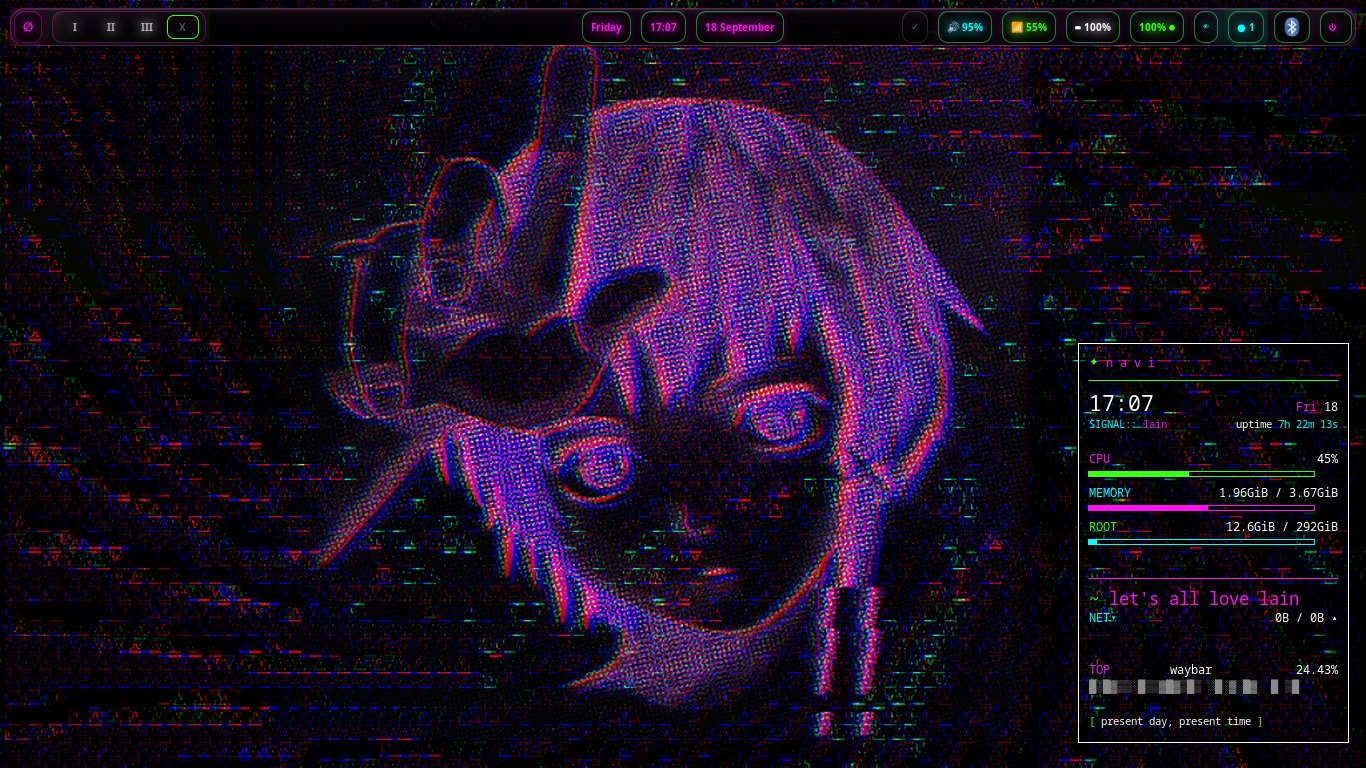
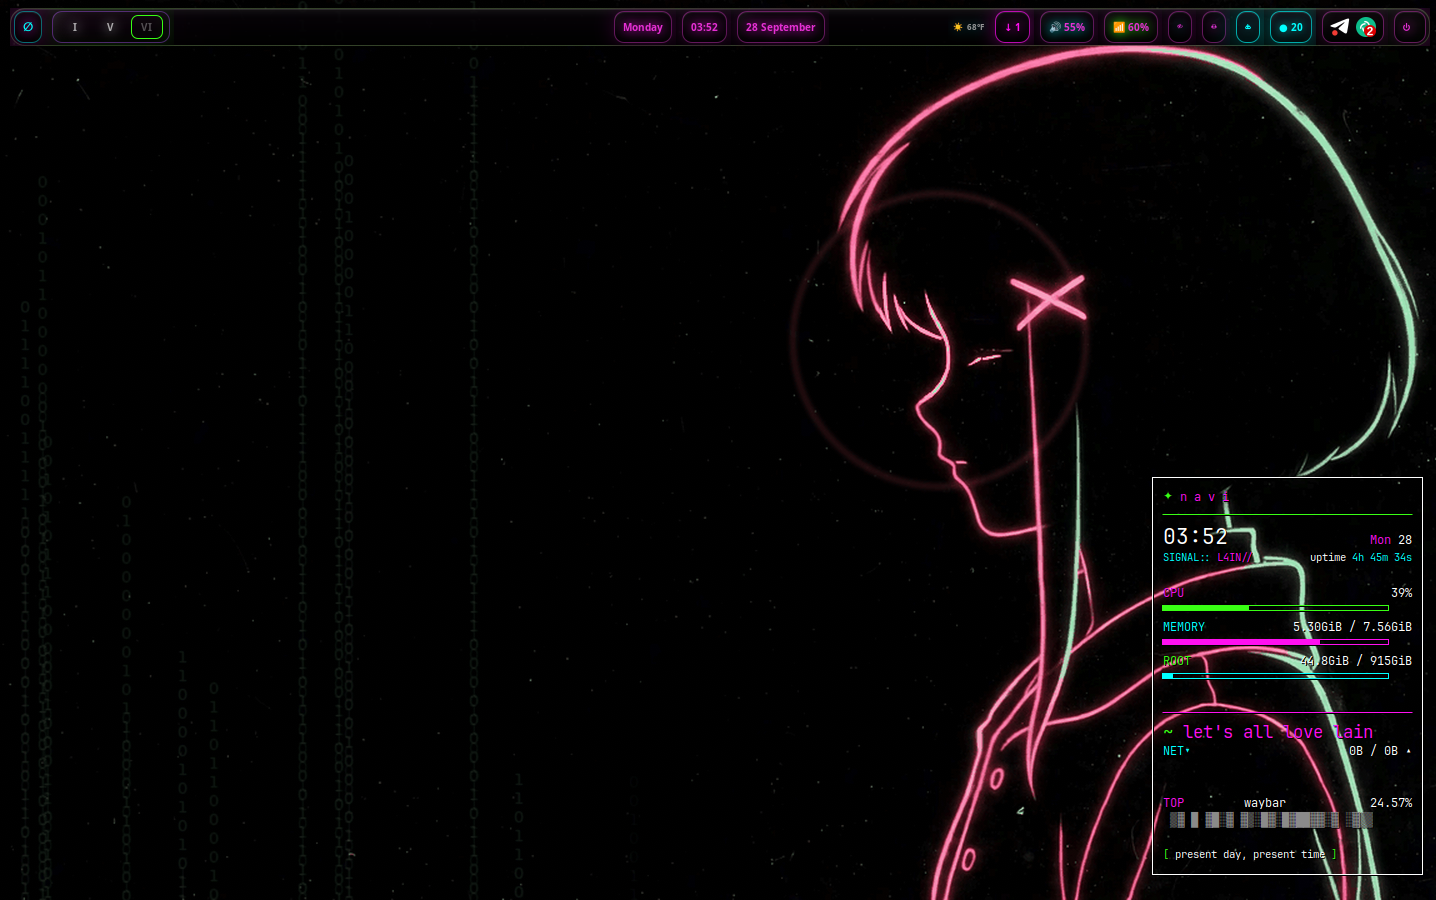
screenshot roller rebuild: 12 fresh slides, new hero, agent-center + naviApps sections refreshed

diff --git a/index.html b/index.html
@@ -939,7 +939,7 @@
 
         <div class="hero-stage">
           <div class="desktop-window" aria-label="navi desktop screenshot">
-            <img src="assets/hero.png" alt="The navi desktop: glitch-Lain wallpaper, the obsidian Waybar and a conky system panel in nightshadeNeon">
+            <img src="assets/hero.png" alt="The navi desktop: hairclip-neon Lain wallpaper, the obsidian Waybar and a conky system panel in nightshadeNeon">
           </div>
           <span class="stable-stamp">PUBLIC STABLE // SIGNAL LIVE</span>
         </div>
@@ -1051,46 +1051,46 @@
 
       <div class="tour-shell" aria-label="navi screenshot carousel">
         <div class="tour-screen" aria-live="polite">
-          <figure class="tour-slide active" data-title="the wired, ready" data-copy="The new obsidian Waybar over a glitch-Lain wallpaper — focused, legible, built for the keyboard." data-meta="01 / 12">
-            <img src="assets/hero.png" alt="The navi desktop: glitch-Lain wallpaper, the obsidian Waybar and a conky system panel">
+          <figure class="tour-slide active" data-title="the wired, ready" data-copy="nothing open, everything ready — the wired idles beautifully." data-meta="01 / 12">
+            <img src="assets/hero.png" alt="The navi desktop: hairclip-neon Lain wallpaper, the obsidian Waybar and a conky system panel">
           </figure>
-          <figure class="tour-slide" data-title="one theme, everywhere" data-copy="nemo, NaviVim and everything between them in one nightshadeNeon GTK theme with Moka icons — the toolkit speaks the same language as the terminal." data-meta="02 / 12">
-            <img src="assets/navivim-editing.png" alt="nemo file manager in the nightshadeNeon GTK theme with Moka icons, beside NaviVim editing an HTML file">
+          <figure class="tour-slide" data-title="tiled by default" data-copy="edit the wiki, walk the files, read the smallweb. the mouse stays parked." data-meta="02 / 12">
+            <img src="assets/tiled-work.png" alt="NaviVim editing the rav3ndust.xyz wiki, ranger listing files and amfora on a gemini page, tiled across the desktop">
           </figure>
-          <figure class="tour-slide" data-title="tiled by default" data-copy="Sway arranges the work. i3 remains one session away when X11 is the right tool." data-meta="03 / 12">
-            <img src="assets/tiled.png" alt="navi tiled desktop with Vim, ranger and terminal windows">
+          <figure class="tour-slide" data-title="agents belong here" data-copy="four agents, one editor, no tab-switching — herdr tiles the whole bench." data-meta="03 / 12">
+            <img src="assets/agents-bench.png" alt="herdr tiling opencode, the GitHub Copilot CLI, goose, omp's model picker and NaviVim on one desktop">
           </figure>
-          <figure class="tour-slide" data-title="agents belong here" data-copy="herdr tiles the work — NaviVim on the left, an opencode agent reading the repo handbook on the right. editor and agent, one keystroke apart." data-meta="04 / 12">
-            <img src="assets/herdr-agents.png" alt="herdr tiling NaviVim and an opencode agent side by side in the terminal">
+          <figure class="tour-slide" data-title="the editor is home" data-copy="vim, distro-fied — file tree, fuzzy finder, language servers. zero config spelunking required." data-meta="04 / 12">
+            <img src="assets/navivim-dash.png" alt="NaviVim's dashboard over the navi repo, with the file tree and keybinding cheatsheet">
           </figure>
-          <figure class="tour-slide" data-title="launcher + alerts" data-copy="rofi launches in green and pink, dunst pings in magenta — the launcher and the notifier, both fluent in nightshadeNeon." data-meta="05 / 12">
-            <img src="assets/rofi-dunst.png" alt="the rofi application launcher open over the desktop with a dunst notification visible">
+          <figure class="tour-slide" data-title="launch anything" data-copy="type and it's there — every tool on the system, one filter away." data-meta="05 / 12">
+            <img src="assets/rofi-launcher.png" alt="the rofi launcher in combi mode filtering 2167 entries">
           </figure>
-          <figure class="tour-slide" data-title="radio from the smallweb" data-copy="navi radio brings live stations and local music into a screen tuned to the rest of the desktop." data-meta="06 / 12">
-            <img src="assets/navi-radio.png" alt="navi radio playing a station in its nightshadeNeon interface">
+          <figure class="tour-slide" data-title="the panel is alive" data-copy="the panel isn't decoration — every waybar module opens a real tool." data-meta="06 / 12">
+            <img src="assets/navi-mods.png" alt="four navi mods tiled: calendar, weather alerts, networking and audio">
           </figure>
-          <figure class="tour-slide" data-title="apps, living locally" data-copy="naviApps is an offline-first catalog of 71 installable webapps, including a dedicated from xvoidsx collection." data-meta="07 / 12">
-            <img src="assets/naviapps.png" alt="The local naviApps web interface with search, categories and app cards">
+          <figure class="tour-slide" data-title="the web, on your terms" data-copy="Chrome in nightshadeNeon, blackice eating the trackers — the browser looks like your desktop and blocks like it means it." data-meta="07 / 12">
+            <img src="assets/browser-wiki.png" alt="Chrome in the nightshadeNeon theme with blackice and Proton Pass in the toolbar">
           </figure>
-          <figure class="tour-slide" data-title="your people, your protocols" data-copy="neighborli on the fediverse and glyyph on nostr, side by side — social that belongs to you, not a platform." data-meta="08 / 12">
-            <img src="assets/neighborli-glyyph.png" alt="neighborli and the glyyph nostr client open side by side on the navi desktop">
+          <figure class="tour-slide" data-title="your people, your protocols" data-copy="the timeline is yours again — no algorithm in between." data-meta="08 / 12">
+            <img src="assets/social-protocols.png" alt="neighborli's home feed beside the glyyph nostr client">
           </figure>
-          <figure class="tour-slide" data-title="the smallweb, native" data-copy="elinks and amfora ship ready — gemini, gopher and the quiet corners of the web are first-class citizens here." data-meta="09 / 12">
-            <img src="assets/smallweb.png" alt="elinks browsing the web and bookmarks beside amfora on a gemini capsule">
+          <figure class="tour-slide" data-title="the smallweb, native" data-copy="the smallweb isn't a demo here. it's tuesday." data-meta="09 / 12">
+            <img src="assets/smallweb-bbs.png" alt="elinks reading a bookmarks page beside amfora on a gemini BBS">
           </figure>
-          <figure class="tour-slide" data-title="duskline, in the wild" data-copy="A real daily desktop: Waybar overhead, music in motion and a violet horizon behind it." data-meta="10 / 12">
-            <img src="assets/duskline-desktop.png" alt="A real navi desktop with duskline gifpaper, Waybar and music tools">
+          <figure class="tour-slide" data-title="radio from the smallweb" data-copy="radio, rebuilt for the wired — stations, tapes, and your own files in one screen." data-meta="10 / 12">
+            <img src="assets/navi-radio-fresh.png" alt="the navi radio webapp with its station list in nightshadeNeon">
           </figure>
-          <figure class="tour-slide" data-title="the wired has a pulse" data-copy="cmus and cava arrive pre-tuned in cyan, green, magenta and red — music is part of the environment." data-meta="11 / 12">
-            <img src="assets/music-desktop.png" alt="A real navi desktop with cmus, cava and an animated Lain wallpaper">
+          <figure class="tour-slide" data-title="the machine DJs" data-copy="put the machine on DJ duty — pianobar spins, cava dances, you work." data-meta="11 / 12">
+            <img src="assets/pianobar-dj.png" alt="pianobar picking stations with the cava visualizer and a conky panel">
           </figure>
-          <figure class="tour-slide" data-title="old iron, new tricks" data-copy="navi 2.0 eiri on a 2012 Acer Aspire S3. if it flies here, it flies anywhere — that's perma-computing." data-meta="12 / 12">
-            <img src="assets/fastfetch.png" alt="fastfetch showing navi 2.0 eiri running on an Acer Aspire S3">
+          <figure class="tour-slide" data-title="old iron, new tricks" data-copy="navi 2.0 eiri on a 2012 ThinkCentre M92p — if it flies here, it flies anywhere. that's perma-computing." data-meta="12 / 12">
+            <img src="assets/old-iron.png" alt="fastfetch showing navi 2.0 eiri on a 2012 ThinkCentre M92p">
           </figure>
           <div class="tour-overlay">
             <div>
               <h3 id="tour-title">the wired, ready</h3>
-              <p id="tour-copy">The new obsidian Waybar over a glitch-Lain wallpaper — focused, legible, built for the keyboard.</p>
+              <p id="tour-copy">nothing open, everything ready — the wired idles beautifully.</p>
             </div>
             <span class="tour-count" id="tour-count">01 / 12</span>
           </div>
@@ -1099,17 +1099,17 @@
           <button class="tour-arrow" type="button" id="tour-prev" aria-label="Previous screenshot">←</button>
           <div class="tour-tabs" role="tablist" aria-label="Choose a screenshot">
             <button class="tour-tab active" type="button" role="tab" aria-selected="true">desktop</button>
-            <button class="tour-tab" type="button" role="tab" aria-selected="false">theme</button>
-            <button class="tour-tab" type="button" role="tab" aria-selected="false">tiling</button>
-            <button class="tour-tab" type="button" role="tab" aria-selected="false">agents</button>
-            <button class="tour-tab" type="button" role="tab" aria-selected="false">launcher</button>
-            <button class="tour-tab" type="button" role="tab" aria-selected="false">radio</button>
-            <button class="tour-tab" type="button" role="tab" aria-selected="false">apps</button>
-            <button class="tour-tab" type="button" role="tab" aria-selected="false">social</button>
-            <button class="tour-tab" type="button" role="tab" aria-selected="false">smallweb</button>
-            <button class="tour-tab" type="button" role="tab" aria-selected="false">duskline</button>
-            <button class="tour-tab" type="button" role="tab" aria-selected="false">music</button>
-            <button class="tour-tab" type="button" role="tab" aria-selected="false">system</button>
+            <button class="tour-tab" type="button" role="tab" aria-selected="false" tabindex="-1">tiling</button>
+            <button class="tour-tab" type="button" role="tab" aria-selected="false" tabindex="-1">agents</button>
+            <button class="tour-tab" type="button" role="tab" aria-selected="false" tabindex="-1">editor</button>
+            <button class="tour-tab" type="button" role="tab" aria-selected="false" tabindex="-1">launcher</button>
+            <button class="tour-tab" type="button" role="tab" aria-selected="false" tabindex="-1">mods</button>
+            <button class="tour-tab" type="button" role="tab" aria-selected="false" tabindex="-1">browser</button>
+            <button class="tour-tab" type="button" role="tab" aria-selected="false" tabindex="-1">social</button>
+            <button class="tour-tab" type="button" role="tab" aria-selected="false" tabindex="-1">smallweb</button>
+            <button class="tour-tab" type="button" role="tab" aria-selected="false" tabindex="-1">radio</button>
+            <button class="tour-tab" type="button" role="tab" aria-selected="false" tabindex="-1">music</button>
+            <button class="tour-tab" type="button" role="tab" aria-selected="false" tabindex="-1">system</button>
           </div>
           <button class="tour-arrow" type="button" id="tour-next" aria-label="Next screenshot">→</button>
         </div>
@@ -1183,8 +1183,8 @@
         </div>
         <div class="center-screen" aria-hidden="true">
           <p class="center-row"><span class="face f-green">◉</span> opencode <span class="center-dim">working — ~/navi</span></p>
-          <p class="center-row"><span class="face f-pink">◉</span> pi <span class="center-dim">needs you — permission</span></p>
-          <p class="center-row"><span class="face f-cyan">◉</span> hermes <span class="center-dim">ready</span></p>
+          <p class="center-row"><span class="face f-cyan">◉</span> copilot <span class="center-dim">idle</span></p>
+          <p class="center-row"><span class="face f-green">◉</span> goose <span class="center-dim">working — ~/wired</span></p>
         </div>
         <div class="panel-captions center-captions" aria-live="polite">
           <span>status — jump to any live agent</span>
@@ -1196,8 +1196,8 @@
       </div>
 
       <figure class="play-shot center-live">
-        <img src="screenshots/agent-center-live.png" alt="The agent center live on a real navi desktop — the status tab floating over opencode and omp agent sessions, waybar glowing above">
-        <figcaption><strong>live on the wired</strong><span>the real center — status tab over two live agent sessions</span></figcaption>
+        <img src="assets/agent-center.png" alt="The agent center live on a real navi desktop — the status tab floating over opencode, copilot, goose and omp sessions, waybar glowing above">
+        <figcaption><strong>live on the wired</strong><span>the real center — status tab over four live agent sessions</span></figcaption>
       </figure>
 
       <div class="principles" aria-label="Why the agent center matters">
@@ -1384,13 +1384,13 @@
       <div class="apps-band">
         <div class="apps-copy">
           <p class="chapter-label">NAVIAPPS // LOCAL + OFFLINE-FIRST</p>
-          <h2>92 doors.<br><span>one catalog.</span></h2>
-          <p>naviApps is a local webpage that catalogs the webapps navi can turn into focused desktop launchers. Search it offline, inspect the exact command, install one app or bring the whole shelf into Rofi.</p>
+          <h2>133 doors.<br><span>one catalog.</span></h2>
+          <p>naviApps is the local, offline-first storefront — browse the curated catalog at your leisure, inspect the exact command, install one app or bring the whole shelf into Rofi. Prefer the terminal? <strong>navi-get</strong> is the same catalog as a floating TUI: search, install, remove, done.</p>
           <code class="apps-command">$ navi-webapp install all</code>
         </div>
         <figure class="apps-shot">
-          <img src="assets/naviapps.png" alt="The naviApps local catalog with search, categories and webapp cards">
-          <figcaption><span>naviApps // the app store for navi</span><span>92 entries // local catalog</span></figcaption>
+          <img src="assets/naviapps.png" alt="The naviApps storefront beside the navi-get TUI software center, both browsing the same local catalog">
+          <figcaption><span>naviApps + navi-get // two doors, one catalog</span><span>133 entries // local catalog</span></figcaption>
         </figure>
       </div>
     </section>
